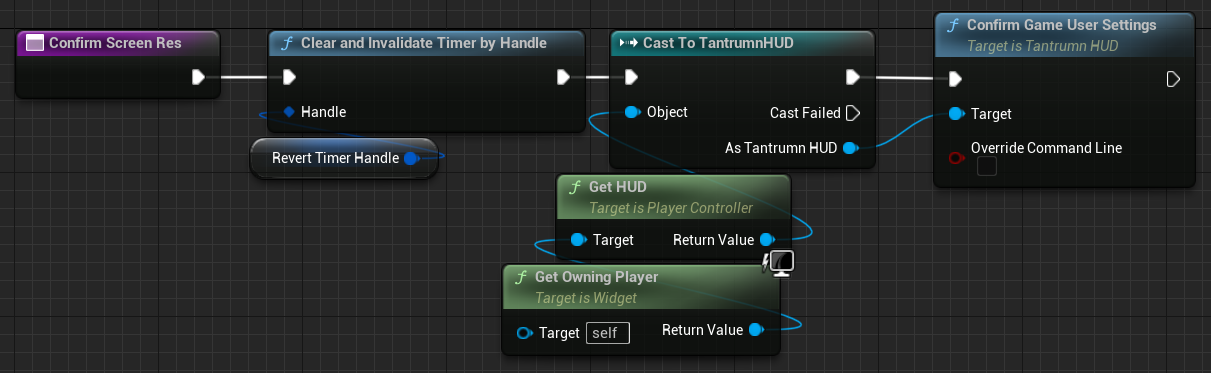
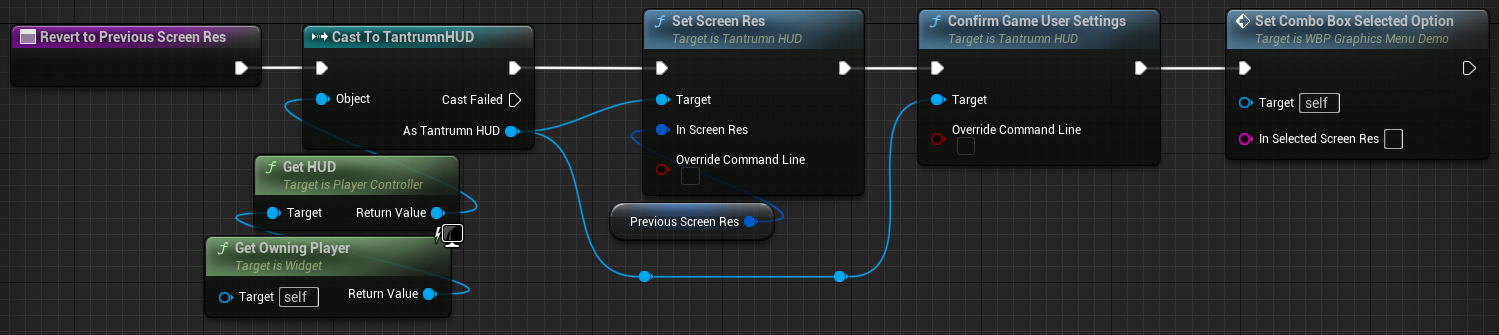
typo fixes

diff --git a/content/posts/working-notes-gus.md b/content/posts/working-notes-gus.md
@@ -9,15 +9,15 @@ draft: false
 ---
 
 # Working Notes
-*These 'Working Notes' blog entries are daily notes from engineering work I've done which I believe may be useful for others.  These notes are not meant to be best recommended practice and are subject to change over time as I develop new approaches*.
+*These 'Working Notes' blog entries are daily notes from engineering work I've done which I believe may be useful for others.  These notes are not meant to be best recommended practice and will probably change over time as I learn new things or come up with better tricks...*
 
 ## Unreal Engine 5 - In Game Graphics Settings
-Currently I'm working on a UI for a game and will need to present to the user a menu UI for graphics settings.  The following will provide information to help people get started in the right direction with using the native Game User Settings (GUS) system in UE.
+Currently I'm working on a UI for a game and will need to present to the user a menu UI for graphics settings.  The following will provide information to help people get started in the right direction with using the native Game User Settings (GUS) system in Unreal Engine 5.
 
 We'll use C++ and Unreal Engine's reflection system to handle most of the work, and let Widget Blueprints sort out the presentation to the player.  Please note, I've omitted logging and failure case logic for the sake of brevity in these examples.
 
-1. Create a INI file for GUS with the Game Config folder, example name: `DefaultGameUserSettings.ini`
-2. Populate the file with the GUS header info and potentially any default settings you would like:
+1. Create an ini file for GUS within the Game Config folder, right next to all the rest of it's little ini friends, example filename: `DefaultGameUserSettings.ini`
+2. Populate the file with the GUS header pre-amble and sprinkle in any default settings you would like.  Go easy on the salt, you'll need that for later when you realise how many steps are in this article &#128517;
 ```
   [/Script/Engine.GameUserSettings]
   ResolutionSizeX=1024
@@ -31,7 +31,7 @@ We'll use C++ and Unreal Engine's reflection system to handle most of the work, 
 * Storing Game User Settings Containing Selected Screen Resolution
 * Retrieving Game User Settings with Selected Screen Resolution
 
-The Storing and Retrieving elements will allow us to save the settings across Game restarts and the like since this information will go to and come from disk.
+The Storing and Retrieving elements will allow us to save the settings across Game restarts and the like since this information will load to and from disk.
 
 4. Retrieve - Depending on your preference you can place the following code where it fits within your project.  This quick example uses the player's HUD and overrides BeginPlay.
 ```cpp
@@ -65,14 +65,12 @@ void AGameHUD::BeginPlay()
 ```cpp
 // GameHUD.h
 public:
-
 	/**
-	 * Sets the given Screen Resolution
-	 * @param InScreenRes The IntPoint with which to set the Screen Resolution
-	 * @param bConfirmed Set to true to store the desired setting to disk
+	 * Checks for available Screen Resolutions
+	 * @param ScreenResOpts A reference to the data container with which to store the Screen Resolutions
 	 */
 	UFUNCTION(BlueprintCallable, Category = "Graphics Options")
-	void SetScreenRes(FIntPoint InScreenRes, bool bConfirmed);
+	void CreateScreenResOpts(UPARAM(ref) TMap<FString, FIntPoint>& ScreenResOpts);
 ```
 
 ```cpp
@@ -96,7 +94,7 @@ void AGameHUD::CreateScreenResOpts(UPARAM(ref) TMap<FString, FIntPoint>& ScreenR
 	}
 }
 ```
-6. Applying - Next we'll create the method used by the Widget Blueprint to set the Screen Resolution. A couple things to note, if allowing for multiple Graphics Settings, it may be better to set this up with a Struct that gets passed in by reference with the desired settings.
+6. Applying - Next we'll create the method used by the Widget Blueprint to set the Screen Resolution. Something to consider, if allowing for multiple Graphics Settings, it may be better to set this up with a Struct that gets passed in by reference with all the desired settings.
 
 ```cpp
 // GameHUD.h
@@ -123,7 +121,7 @@ void AGameHUD::SetScreenRes(FIntPoint InScreenRes,  bool bOverrideCommandLine)
 	}
 }
 ```
-7. Storing - We'll need to serialise the Game User Settings to disk so that players do not need to keep specifying their desired resolution each time they play the game.  This can used in conjunction with logic within the Widget to give a constrained time within which they need to 'confirm' the new setting so they don't get stuck with a resolution so bad they can't navigate the UI to set it back.
+7. Storing - We'll need to serialise the Game User Settings to disk so that players do not need to keep specifying their desired resolution each time they play the game.  This can be used in conjunction with logic within the Widget to give a constrained time within which they need to 'confirm' the new setting so they don't get stuck with a resolution so bad they can't navigate the UI to set it back.
 
 ```cpp
 // GameHUD.h
@@ -147,54 +145,172 @@ void AGameHUD::ConfirmGameUserSettings(bool bOverrideCommandLine)
 
 ```
 
-8. With the C++ work done, we'll switch gears and work on the presentation layer using Widgets, and this time Blueprint, although c++ is equally valid.  First, we'll create a quick UI in the designer tab and use a ComboBox String to hold our Screen Resolution options.
+8. With the C++ work done, we'll switch gears and work on the presentation layer using Widgets, and this time Blueprints, although c++ is equally valid.  First, we'll create a quick UI in the designer tab and use a ComboBox String to hold our Screen Resolution options. Don't worry about the need to fidget with the widget and adjust the content array field within the Details pane.  We'll handle that in code &#128526;
 
 ![UI Widget for Screen Resolution Change](/posts/screenres/GUS-UIWidget.png)
 
-9. Next we'll pop over to the Event Graph. To start, we'll create a few member variables and some helper functions.  Create the following variables:
+9. Next we'll pop over to the Event Graph. To start, we'll create a few member variables and some helper functions.  A quick word on nomenclature, for Blueprint variables I'll use the format `VarName<VarType>` Setup the following variables:
 
-* RevertTime\<float\>
-* RevertTimerHandle\<Timer Handle\>
-* PreviousScreenRes\<Int Point\>
-* ScreenResolutions\<Map\<String, Int Point\>\>
+* `RevertTime<float>` Example Default Value: `5.0`
+* `RevertTimerHandle<Timer Handle>`
+* `PreviousScreenRes<Int Point>`
+* `ScreenResolutions<Map<String, Int Point>>`
 
-10. First helper function `SetComboBoxSelectedOption`. This will save us duplicating code for each time the ComboBox value is changed.  You'll want to create a local variable `ScreenRes`\<String\n and an input variable `InSelectedScreenRes`\<String\>.
+10. First helper function: `SetComboBoxSelectedOption` This will save us duplicating code for each time the ComboBox value is changed.  You'll want to create a local variable within the function: `ScreenRes<String>` and an input variable `InSelectedScreenRes<String>`
 
 ![Helper Function for Setting ComboBox Selected Item](/posts/screenres/populatecomboboxselectoptionfunc.png)
 
-11. Second helper function `ConfirmScreenRes`, this will give the player failsafe if they select a bad screen resolution and cannot change back through the UI:
+11. Second helper function: `RevertToPreviousScreenRes` this will give the player a fail-safe for if they select a bad screen resolution and cannot change back through the UI:
 
-![Helper Function for Reverting to Previous Screen Res](/posts/screenres/populatecomboboxselectoptionfunc.png)
+![Helper Function for Reverting to Previous Screen Res](/posts/screenres/revertfunc.png)
 
-12. Create a function called PopulateScreenResComboBox.  We'll grab the HUD of the player and use our new methods to populate the ComboBox in the UI.  We'll also get the current screen resolution and set that as the default selected value of the ComboBox.  Screen shots are of the same function split over two pictures for the sake of clarity.
+12. Third helper function: `ConfirmScreenRes` Does what it says on the tin!
+
+![Helper Function for Confirming the Player's Screen Res Choice](/posts/screenres/confirmfunc.png)
+
+13. Create a function called `PopulateScreenResComboBox`  We'll grab the HUD of the player and use our new methods to populate the ComboBox in the UI.  We'll also get the current screen resolution and set that as the default selected value of the ComboBox.  Screen shots are from the same function, just split over two pictures for the sake of clarity.
 
 ![Populate Screen Resolutions ComboBox Part 1](/posts/screenres/populatecomboboxfunc.png)
 
 ![Populate Screen Resolutions ComboBox Part 2](/posts/screenres/populatecomboboxfuncpt2.png)
 
 
-13. We're almost done. Create another function called SetScreenResolution.  Set an input parameter for the function as InSelectedRes\<String\>.  We've added a timer here which will call the Revert Function upon expiration.  In a moment we'll add an event for On-Click for the confirm button which will destroy that timer and save the Game User Settings to disk.
+14. We're almost done. Create another function called `SetScreenResolution`  Set an input parameter for the function as `InSelectedRes<String>`  We've added a timer here which will call the Revert Function upon expiration.  In a moment we'll add an event for On-Click for the confirm button which will destroy that timer and save the Game User Settings to disk.
 
 ![Set the Screen Resolution to Selected Value](/posts/screenres/setscreenresfunc.png)
 
-14. In the designer view, go to the ComboBox and at the bottom of the Details pane, hit the binding next to `On Selection Changed`.
+15. In the designer view, click on the ComboBox and at the bottom of the Details pane, hit the binding next to `On Selection Changed`
 
-15. Also, in the designer view, go to the Confirm button and at the bottom of the Details pane, hit the binding next to `Clicked`.
+16. Also, in the designer view, click on your Confirm button and at the bottom of the Details pane, hit the binding next to `Clicked`
 
-16. Finally, Finally! In the Event Graph we wire up our funcs to three events:
+17. Finally, Finally! In the Event Graph we wire up our funcs to three events:
 
 * Event Construct -> PopulateScreenResComboBox
 * On Selection Changed -> SetScreenResolution, Selected Item -> In Selected Res
 * Clicked -> Confirm Screen Res
 
-![Set the Screen Resolution to Selected Value](/posts/screenres/eventgraph.png)
+![Event Graph Where We Wire Up Our Funcs to UI Events](/posts/screenres/eventgraph.png)
 
-17. Now, make sure your HUD Class is selected in your GameMode then run the game as standalone and bring up your UI.
+18. Now, make sure <ins>your HUD Class is selected in your GameMode</ins>, you've come too far now to let something like that trip you up at the last step! Run the game as standalone and bring up your UI.
 
 ![Set the Screen Resolution to Selected Value](/posts/screenres/hudclass.png)
 
-18. Hopefully your should have something somewhat like the following.  Try changing the resolution to make sure it works, let the timer expire to see if it auto defaults back to the previous resolution and the ComboBox selected values update accordingly.  Next change the resolution again, hit confirm.  Quit the game, then come back in and check to see if the selected screen resolution has been loaded.
+19. Hopefully you should have something somewhat like the following.  Try changing the resolution to make sure it works, let the timer expire to see if it auto defaults back to the previous resolution and the ComboBox selected value updates accordingly.  Next change the resolution again, write it down to remember later unless your mind is like a steel trap, mine's like a sieve... of Eratosthenes &#128526; anyways... hit confirm.  Quit the game, then come back in and check to see if the selected screen resolution has been loaded.
 
 ![Set the Screen Resolution to Selected Value](/posts/screenres/screenresuiunexpanded.png)
 
 ![Set the Screen Resolution to Selected Value](/posts/screenres/screenresuiexpanded.png)
+
+And there you go, a working setup to allow Players to change their screen resolution in ~~5~~ 19 easy steps! &#127881; For further work you can include other graphics settings, don't forget my note in step 6. As well as limit the number of Screen Resolutions options which get listed within the ComboBox, as Tyranny of Choice is a thing.   At any rate, thanks for reading!
+
+Full files:
+
+```cpp
+// GamHUD.h
+// Fill out your copyright notice in the Description page of Project Settings.
+
+#pragma once
+
+#include "CoreMinimal.h"
+#include "GameFramework/HUD.h"
+#include "GameHUD.generated.h"
+
+/**
+ * 
+ */
+UCLASS()
+class MYSUPERAWESOMEGAME_API AGameHUD : public AHUD
+{
+	GENERATED_BODY()
+
+protected:
+	virtual void BeginPlay() override;
+
+public:
+
+	/**
+	 * Checks for available Screen Resolutions
+	 * @param ScreenResOpts A reference to the data container with which to store the Screen Resolutions
+	 */
+	UFUNCTION(BlueprintCallable, Category = "Graphics Options")
+	void CreateScreenResOpts(UPARAM(ref) TMap<FString, FIntPoint>& ScreenResOpts);
+
+	/**
+	 * Sets the given Screen Resolution
+	 * @param InScreenRes The IntPoint with which to set the Screen Resolution
+	 * @param bOverrideCommandLine Should the Game User Settings override conflicting command line settings
+	 */
+	UFUNCTION(BlueprintCallable, Category = "Graphics Options")
+	void SetScreenRes(FIntPoint InScreenRes, bool bOverrideCommandLine);
+
+	/**
+	 * Stores the Game User Settings to Disk
+	 * @param bOverrideCommandLine Should the Game User Settings override conflicting command line settings
+	 */
+	UFUNCTION(BlueprintCallable, Category = "Graphics Options")
+	void ConfirmGameUserSettings(bool bOverrideCommandLine);
+	
+};
+
+```
+
+```cpp
+// GameHUD.cpp
+// Fill out your copyright notice in the Description page of Project Settings.
+
+
+#include "AGameHUD.h"
+
+#include "GameFramework/GameUserSettings.h"
+#include "Kismet/KismetSystemLibrary.h"
+
+void AGameHUD::BeginPlay()
+{
+	Super::BeginPlay();
+
+	/** Get the GameUserSettings data container with which our work will depend upon */
+	UGameUserSettings* GameUserSettings = UGameUserSettings::GetGameUserSettings();
+	/** Deserialise settings from Disk - Ex: DefaultGameUserSettings.ini */
+	GameUserSettings->LoadSettings();
+	/** Overwrite any garbage with default settings if need be */
+	GameUserSettings->ValidateSettings();
+}
+
+void AGameHUD::CreateScreenResOpts(UPARAM(ref) TMap<FString, FIntPoint>& ScreenResOpts)
+{
+	/** Use Kismet Library to retrieve a list of Screen Resolutions */
+	TArray<FIntPoint> SupportedScreenResolutions;
+	UKismetSystemLibrary::GetSupportedFullscreenResolutions(SupportedScreenResolutions);
+
+	/** Clear out data container since we are unsure of what is in there */
+	ScreenResOpts.Empty();
+
+	/** Iterate over possible Screen Resolutions and populate the data container */
+	for (FIntPoint SupportedScreenResolution : SupportedScreenResolutions)
+	{
+		/** Derive a KeyName which is human friendly, ex: '1024 x 768' */
+		FString KeyName = FString::Printf(TEXT("%i x %i"), SupportedScreenResolution.X, SupportedScreenResolution.Y);
+		/** Use Emplace instead of Add to overwrite duplicate keys just in case they occur */
+		ScreenResOpts.Emplace(KeyName, SupportedScreenResolution);
+	}
+}
+
+void AGameHUD::SetScreenRes(FIntPoint InScreenRes,  bool bOverrideCommandLine)
+{
+	if(UGameUserSettings* GameUserSettings = UGameUserSettings::GetGameUserSettings())
+	{
+		GameUserSettings->SetScreenResolution(InScreenRes);
+		/** We need to apply the settings before they take effect  */
+		GameUserSettings->ApplyResolutionSettings(bOverrideCommandLine);
+	}
+}
+
+void AGameHUD::ConfirmGameUserSettings(bool bOverrideCommandLine)
+{
+	if(UGameUserSettings* GameUserSettings = UGameUserSettings::GetGameUserSettings())
+	{
+		GameUserSettings->ApplySettings(bOverrideCommandLine);
+	}
+}
+
+```
